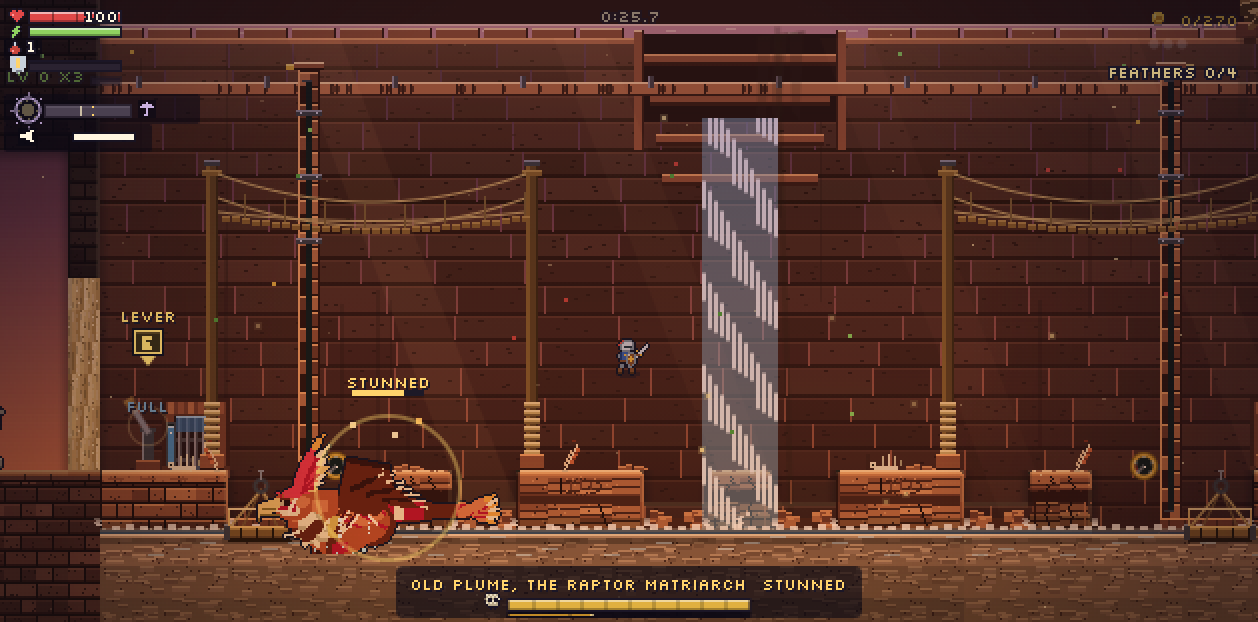
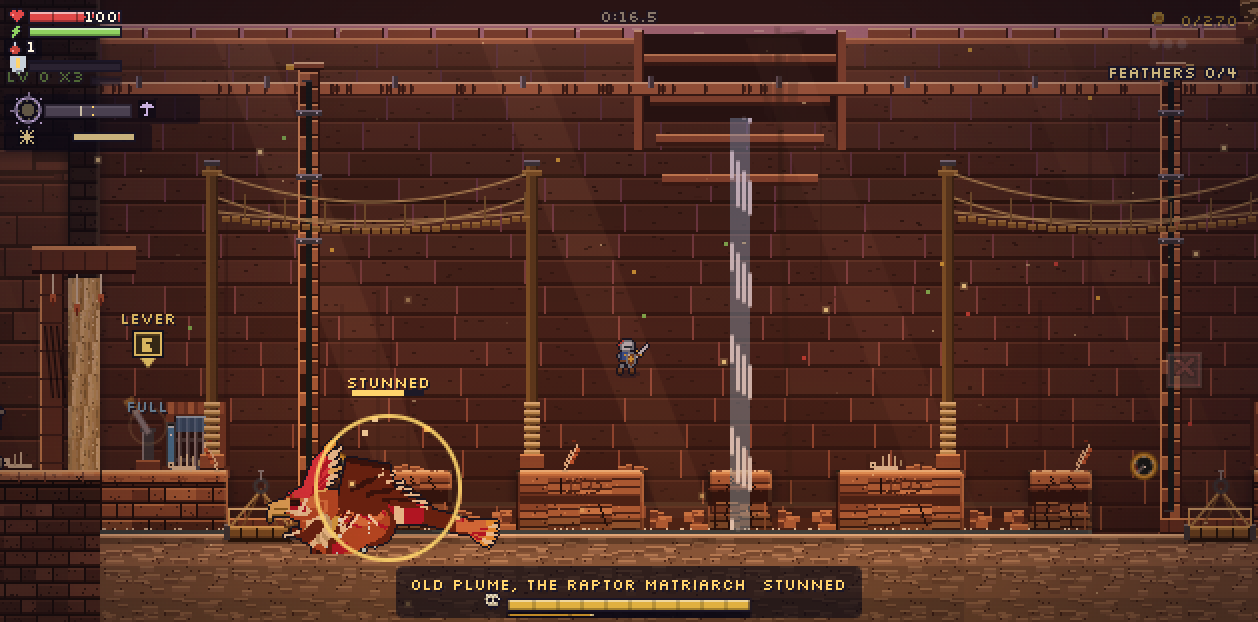
rgart: the Spillway's own look - masonry face + red rock + dry stained chute backdrop, crest davit and rope, crane and chain for sp3, head shelf and her door, slabs and apron tiles

diff --git a/src/redraw/spillway_art.js b/src/redraw/spillway_art.js
@@ -1,0 +1,163 @@
+// spillway_art.js - THE SPILLWAY's OWN LOOK (claude/rgart art pass; pure drawing: no collision, number or rule moves). The Spillway is the dam's own overflow cut: you go down off the dam's crest into
+// a dry basin and climb its face to her nest. It used to wear the generic sunset backdrop (the gorge's back wall only covers cols 3-45). Now:
+//   drawBackdrop(g, cx, cy, VW, VH, time)   BEHIND the tiles: the dam's MASONRY FACE above row 32 (ashlar courses, iron ties, weep stains, a crenelled crown, a heavy cornice at its foot) and the raw RED ROCK
+//                                           below it (strata, varnish streaks, pale mineral weeps), with the DRY, STAINED SPILLWAY CHUTE down the channel's columns: a weir lip, polished slabs, tide-lines,
+//                                           salt crust, dried slime, and a cracked stilling floor at the foot. Baked once; the wall is darker the deeper (the basin's shade).
+//   drawProps(g, S, K)                      behind the heroes: the CREST's davit and rope (a timber post and jib over the lip, the rope run through a sheave and down the shaft), a CRANE and CHAIN for any
+//                                           basket hung far from its water-wheel (sp3 at cols 80-81: a jib over its pulley on the head, a link chain down to the wheel's cog), and the HEAD SHELF's dressing
+//                                           (her door's carved lintel and jamb, talon scars, hung plumes, bones)
+//   tile(t, x, y, at, T, L)                 the kit's hook (src/redraw/redgorge_tiles.js): the head shelf's flagstone, a stone corbel slab where a ledge stands in the masonry, and the basin floor's scoured apron
+import { canvas, mulberry } from '../px.js';
+import { REDGORGE } from '../red-gorge.js';
+const TS = 16, R = Math.round, SP = REDGORGE.spillway;
+const memo = new Map(); const once = (k, fn) => { if (!memo.has(k)) memo.set(k, fn()); return memo.get(k); };
+const rc = (g, x, y, w, h, col) => { g.fillStyle = col; g.fillRect(R(x), R(y), R(w), R(h)); };
+const hash = (a, b) => { let h = (Math.imul(a | 0, 73856093) ^ Math.imul(b | 0, 19349663)) >>> 0; h = Math.imul(h ^ (h >>> 13), 1274126177) >>> 0; return h; };
+const WX0 = 46 * TS, WX1 = (SP.x1 + 1) * TS, WY0 = SP.top * TS, WY1 = (SP.floor + 1) * TS, FOOT = 33 * TS;   /* the wall's rect (world px); the masonry ends at row 32 */
+const CH0 = SP.ch[0] * TS, CH1 = (SP.ch[1] + 1) * TS;
+const M = { m0: '#2e1614', m1: '#3a1e1a', m2: '#46261f', m3: '#542e24', mL: '#6a3a2c', mD: '#140a0a', mort: '#100808', tie: '#1a1418', tieL: '#6a6674' };
+const RRK = ['#4a1c14', '#5e2618', '#74301c', '#52200f', '#6a3420', '#82401f'];
+const WOOD = { w0: '#1e1208', w1: '#3a2614', w2: '#5e4022', w3: '#86602e', w4: '#b08848', rope: '#c8a868', ropeD: '#7a5c34', ropeL: '#ecd49c', iron: '#3a3a44', ironL: '#8a8a98' };
+const STONE = { s0: '#2a1210', s1: '#46221a', s2: '#6a3626', s3: '#8e4e34', s4: '#b06a44', l1: '#eaa468', l2: '#fad39c' };
+
+/* ---- THE WALL, baked once (local px = world - (WX0, WY0)) ---- */
+function bakeWall() {
+  const W = WX1 - WX0, H = WY1 - WY0, [c, g] = canvas(W, H), r = mulberry(4401), foot = FOOT - WY0, cx0 = CH0 - WX0, cx1 = CH1 - WX0;
+  /* the masonry: courses 16 high, blocks 26-44 wide, offset each course */
+  const cols = [M.m1, M.m2, M.m1, M.m3, M.m0, M.m2];
+  for (let y = 0, row = 0; y < foot; y += 16, row++) { let x = -((row * 13) % 30);
+    while (x < W) { const bw = 26 + ((r() * 18) | 0), col = cols[(r() * cols.length) | 0], hh = Math.min(16, foot - y);
+      rc(g, x + 1, y + 1, bw - 1, hh - 1, col); rc(g, x + 1, y + 1, bw - 1, 1, M.mL); rc(g, x + 1, y + hh - 1, bw - 1, 1, M.mD); rc(g, x + bw, y, 1, hh, M.mort);
+      for (let i = 0; i < 3; i++) rc(g, x + 3 + ((r() * (bw - 6)) | 0), y + 3 + ((r() * 9) | 0), 1 + ((r() * 2) | 0), 1, r() < 0.5 ? M.mD : M.m3);
+      if (r() < 0.05) { rc(g, x + 4, y + 4, bw - 8, hh - 7, M.mort); rc(g, x + 4, y + hh - 3, bw - 8, 1, M.m3); }   /* a block gone: a dark void, its lower lip lit */
+      x += bw; }
+    rc(g, 0, y, W, 1, M.mort); }
+  /* the dam's iron ties: a plate, a rivet and a short bar, in rows down the face */
+  for (let y = 40; y < foot - 20; y += 64) for (let x = 24 + ((y * 7) % 40); x < W - 12; x += 96) { rc(g, x, y, 8, 8, M.tie); rc(g, x, y, 8, 1, M.tieL); rc(g, x + 3, y + 3, 2, 2, M.tieL); rc(g, x + 8, y + 3, 10, 2, M.tie); rc(g, x + 8, y + 3, 10, 1, '#2a2630'); }
+  /* the crown: coping, and the crenels she has broken */
+  rc(g, 0, 0, W, 10, M.m3); rc(g, 0, 0, W, 2, '#8a5240'); rc(g, 0, 10, W, 2, M.mort);
+  for (let x = 0; x < W; x += 24) { const gap = (x / 24 | 0) % 5 === 2; if (gap) rc(g, x, 0, 16, 6, '#12090c'); else { rc(g, x, 0, 22, 10, M.m3); rc(g, x, 0, 22, 1, '#a46a50'); rc(g, x + 22, 0, 2, 10, M.mort); } }
+  /* weeps: long dark streaks from every joint, and a pale mineral crust under the coping and the cornice */
+  for (let i = 0; i < 46; i++) { const x = (r() * W) | 0, y0 = 10 + ((r() * (foot - 60)) | 0), len = 24 + ((r() * 110) | 0); g.globalAlpha = 0.25; rc(g, x, y0, 1 + ((r() * 2) | 0), Math.min(len, foot - y0), '#0a0506'); g.globalAlpha = 0.12; rc(g, x + 1, y0, 1, Math.min(len, foot - y0), '#d8c4a0'); }
+  g.globalAlpha = 1;
+  /* the CORNICE at the masonry's foot: a heavy projecting course, lit on top, a deep shadow under */
+  rc(g, 0, foot - 10, W, 10, STONE.s3); rc(g, 0, foot - 10, W, 1, STONE.l2); rc(g, 0, foot - 9, W, 1, STONE.l1); rc(g, 0, foot - 2, W, 2, STONE.s0);
+  for (let x = 0; x < W; x += 20) rc(g, x, foot - 9, 1, 8, STONE.s1);
+  /* the RED ROCK under it: strata with a wavy edge, seams, varnish streaks, pits */
+  for (let y = foot; y < H; ) { const th = 5 + ((r() * 11) | 0), col = RRK[(r() * RRK.length) | 0], ph = r() * 6;
+    for (let x = 0; x < W; x += 4) { const wob = Math.round(Math.sin(x / 55 + ph) * 3.2 + Math.sin(x / 17 + y) * 0.8); rc(g, x, y + wob, 4, th, col); } rc(g, 0, y, W, 1, '#1a0a08'); if (r() < 0.6) rc(g, 0, y + 1, W, 1, '#a0583a'); y += th; }
+  for (let i = 0; i < 60; i++) { const x = (r() * W) | 0, y0 = foot + ((r() * (H - foot - 20)) | 0), len = 18 + ((r() * 90) | 0); g.globalAlpha = 0.14; rc(g, x, y0, 1, Math.min(len, H - y0), '#0c0506'); }
+  for (let i = 0; i < 34; i++) { const x = (r() * W) | 0, y0 = foot + ((r() * (H - foot - 20)) | 0), len = 24 + ((r() * 100) | 0); g.globalAlpha = 0.13; rc(g, x, y0, 2, Math.min(len, H - y0), '#e8d2b0'); }   /* mineral weeps */
+  g.globalAlpha = 1; for (let i = 0; i < 260; i++) rc(g, (r() * W) | 0, foot + ((r() * (H - foot)) | 0), 1 + ((r() * 3) | 0), 1, r() < 0.5 ? '#1a0a08' : '#7a4a2a');
+  for (let i = 0; i < 9; i++) { let x = (r() * W) | 0, y = foot + 20 + ((r() * (H - foot - 80)) | 0); for (let k = 0; k < 34; k++) { rc(g, x, y, 1, 1, '#0c0506'); y++; if (r() < 0.4) x += r() < 0.5 ? -1 : 1; } }   /* hairline cracks */
+  /* THE SPILLWAY CHUTE: the water's own road down the face. a weir lip, polished slabs, tide-lines, salt crust, dried slime */
+  const chW = cx1 - cx0, kerb = 5;
+  rc(g, cx0 - kerb - 2, 0, chW + (kerb + 2) * 2, H, 'rgba(0,0,0,0)');
+  for (let y = 12; y < H; y += 1) { const tone = (Math.floor((y + 3) / 22) % 3), base = ['#7a5a48', '#8a6850', '#9a7860'][tone], seam = (y + 3) % 22 === 0;
+    const inRock = y >= foot; for (let x = cx0; x < cx1; x++) { const e = Math.min(x - cx0, cx1 - 1 - x), a = e < 3 ? 0.78 : 1; g.globalAlpha = a; g.fillStyle = seam ? '#3a2418' : inRock ? ['#6a4a38', '#7a5a44'][((x >> 3) + (y >> 4)) & 1] : base; g.fillRect(x, y, 1, 1); } }
+  g.globalAlpha = 1;
+  for (let k = 0; k < 36; k++) { const x = cx0 + 3 + ((r() * (chW - 6)) | 0), y0 = 14 + ((r() * (H - 60)) | 0), len = 16 + ((r() * 90) | 0); g.globalAlpha = 0.3; rc(g, x, y0, 1, Math.min(len, H - y0 - 20), '#f2dcb8'); }   /* the polish: pale streaks along the flow */
+  for (let y = 44; y < H - 30; y += 44 + ((r() * 30) | 0)) { let yy = y; g.globalAlpha = 0.55; for (let x = cx0 + 2; x < cx1 - 2; x++) { yy += r() < 0.18 ? (r() < 0.5 ? -1 : 1) : 0; rc(g, x, yy, 1, 1, '#2a1a12'); if (r() < 0.5) rc(g, x, yy + 1, 1, 1, '#d8c8a8'); } }   /* tide-lines: a dark edge, a pale salt rim under it */
+  for (let k = 0; k < 18; k++) { const x = cx0 + 2 + ((r() * (chW - 4)) | 0), y0 = 20 + ((r() * (H - 80)) | 0); g.globalAlpha = 0.4; rc(g, x, y0, 2 + ((r() * 3) | 0), 3 + ((r() * 6) | 0), '#4a4a26'); g.globalAlpha = 0.5; rc(g, x, y0 + 1, 1, 1, '#7a8a4a'); }   /* dried slime */
+  g.globalAlpha = 1;
+  for (const sx of [cx0 - kerb, cx1]) { rc(g, sx, 12, kerb, H - 12, STONE.s2); rc(g, sx, 12, kerb, H - 12, 'rgba(0,0,0,0.0)'); for (let y = 14; y < H - 4; y += 12) { rc(g, sx, y, kerb, 11, (y / 12 | 0) & 1 ? STONE.s3 : STONE.s2); rc(g, sx, y, kerb, 1, STONE.l1); } rc(g, sx === cx0 - kerb ? sx : sx + kerb - 1, 12, 1, H - 12, STONE.s0); }   /* the kerb stones */
+  /* the weir: a stone sill across the head of the chute, a lit lip, a dark under-shadow, teeth */
+  rc(g, cx0 - kerb, 0, chW + kerb * 2, 14, STONE.s3); rc(g, cx0 - kerb, 0, chW + kerb * 2, 2, STONE.l2); rc(g, cx0 - kerb, 14, chW + kerb * 2, 3, M.mort); for (let x = cx0 - kerb + 3; x < cx1 + kerb - 2; x += 8) { rc(g, x, 4, 5, 8, STONE.s4); rc(g, x, 4, 5, 1, STONE.l1); }
+  g.globalAlpha = 0.5; rc(g, cx0, 17, chW, 18, '#0a0506'); g.globalAlpha = 1;
+  /* the stilling floor at the foot: scoured pale rock with a cracked, dried mud bed */
+  { const fy = (SP.floor * TS) - WY0, fx0 = cx0 - 40, fx1 = cx1 + 40; g.globalAlpha = 0.9; rc(g, fx0, fy - 8, fx1 - fx0, 24, '#8a6850'); g.globalAlpha = 1; rc(g, fx0, fy - 8, fx1 - fx0, 1, '#bd9878');
+    for (let i = 0; i < 40; i++) { let x = fx0 + ((r() * (fx1 - fx0)) | 0), y = fy - 6 + ((r() * 18) | 0); for (let k = 0; k < 8; k++) { rc(g, x, y, 1, 1, '#3a2418'); x += r() < 0.5 ? 1 : -1; y += r() < 0.3 ? 1 : 0; } } }
+  /* the basin's shade: the deeper the darker; a dusk glow only along the crown */
+  { const gr = g.createLinearGradient(0, 0, 0, H); gr.addColorStop(0, 'rgba(255,170,110,0.18)'); gr.addColorStop(0.12, 'rgba(10,4,6,0.06)'); gr.addColorStop(1, 'rgba(8,2,4,0.62)'); g.fillStyle = gr; g.fillRect(0, 0, W, H);
+    const el = g.createLinearGradient(0, 0, 70, 0); el.addColorStop(0, 'rgba(8,2,4,0.55)'); el.addColorStop(1, 'rgba(8,2,4,0)'); g.fillStyle = el; g.fillRect(0, 0, 70, H); }
+  return c;
+}
+export function drawBackdrop(g, cx, cy, VW, VH, time) {
+  if (cx + VW < WX0 || cx > WX1 || cy + VH < WY0 || cy > WY1) return;
+  const wall = once('wall', bakeWall), sx0 = Math.max(0, R(WX0 - cx)), sx1 = Math.min(VW, R(WX1 - cx)), sy0 = Math.max(0, R(WY0 - cy)), sy1 = Math.min(VH, R(WY1 - cy));
+  if (sx1 <= sx0 || sy1 <= sy0) return;
+  g.drawImage(wall, sx0 - R(WX0 - cx), sy0 - R(WY0 - cy), sx1 - sx0, sy1 - sy0, sx0, sy0, sx1 - sx0, sy1 - sy0);
+  /* the dusk's low light slanting down the masonry, a few drifting bands (the nest backdrop's own trick) */
+  g.save(); g.beginPath(); g.rect(sx0, sy0, sx1 - sx0, Math.min(sy1, R(FOOT - cy)) - sy0); g.clip(); g.globalCompositeOperation = 'lighter';
+  for (let k = 0; k < 4; k++) { const x = R(WX0 - cx) + ((k * 211 + 60 + time * 2.2) % (WX1 - WX0 + 100)) - 50, a = 0.035 + 0.015 * Math.sin(time * 0.5 + k); g.fillStyle = 'rgba(255,190,120,' + a.toFixed(3) + ')'; g.beginPath(); g.moveTo(x, R(WY0 - cy)); g.lineTo(x + 26, R(WY0 - cy)); g.lineTo(x + 150, R(FOOT - cy)); g.lineTo(x + 124, R(FOOT - cy)); g.closePath(); g.fill(); }
+  g.restore();
+}
+
+/* ---- PROPS ---- */
+const chain = (g, x0, y0, x1, y1, sag, ph) => {   /* a link chain on a catenary: alternating flat and edge-on links, marching with ph (px) */
+  const L = Math.hypot(x1 - x0, y1 - y0), n = Math.max(2, Math.floor(L / 3)); let k = 0;
+  for (let i = 0; i <= n; i++) { const t = i / n, tt = ((i + ph) % n + n) % n, x = x0 + (x1 - x0) * t, y = y0 + (y1 - y0) * t + Math.sin(Math.PI * t) * sag; k = (i + Math.floor(ph)) & 1;
+    if (k) { rc(g, x - 1, y - 1, 3, 2, WOOD.ironL); rc(g, x, y, 1, 1, WOOD.iron); } else { rc(g, x, y - 1, 1, 3, WOOD.iron); rc(g, x, y - 1, 1, 1, WOOD.ironL); } void tt; } };
+export function drawProps(g, S, K) {
+  const { cx, cy, vw, vh, time } = K;
+  if (cx + vw < 48 * TS || cx > 96 * TS) return;
+  /* THE CREST: a timber davit on the dam's lip - a post, a jib over the edge with a sheave at its tip - and the rope run through it, down the shaft; scuffs where the rope has worn the stone */
+  { const lipX = R(53 * TS - cx), top = R(22 * TS - cy); if (lipX > -60 && lipX < vw + 60 && top > -90 && top < vh + 40) {
+      const px = lipX - 14, jy = top - 22;
+      rc(g, px - 6, top - 3, 14, 3, STONE.s3); rc(g, px - 6, top - 3, 14, 1, STONE.l1);   /* the footing */
+      rc(g, px - 2, jy, 5, 22, WOOD.w2); rc(g, px - 2, jy, 1, 22, WOOD.w3); rc(g, px + 2, jy, 1, 22, WOOD.w1);   /* the post */
+      for (const by of [top - 8, top - 16]) { rc(g, px - 3, by, 7, 2, WOOD.iron); rc(g, px - 3, by, 7, 1, WOOD.ironL); }
+      rc(g, px - 2, jy - 2, 30, 4, WOOD.w2); rc(g, px - 2, jy - 2, 30, 1, WOOD.w3);   /* the jib, out over the lip */
+      g.strokeStyle = WOOD.w2; g.lineWidth = 2; g.beginPath(); g.moveTo(px + 1, top - 6); g.lineTo(px + 16, jy + 2); g.stroke(); g.lineWidth = 1;   /* the brace */
+      g.fillStyle = WOOD.iron; g.beginPath(); g.arc(lipX + 2, jy + 5, 4, 0, Math.PI * 2); g.fill(); g.fillStyle = WOOD.ironL; g.fillRect(lipX + 1, jy + 1, 2, 1); g.fillStyle = '#10080c'; g.fillRect(lipX + 1, jy + 4, 2, 2);   /* the sheave */
+      for (let y = jy + 9; y < top + 16; y += 2) { rc(g, lipX, y, 4, 2, ((y >> 1) & 1) ? WOOD.ropeD : WOOD.rope); rc(g, lipX + 1, y, 1, 2, WOOD.ropeL); }   /* the rope, twisted */
+      for (let t = 0; t < 3; t++) { rc(g, px - 3, top - 22 + t * 3, 7, 2, ((t) & 1) ? WOOD.ropeD : WOOD.rope); }   /* the standing part, wound on the post */
+      rc(g, px + 2, top - 20, 3, 5, WOOD.rope); rc(g, px + 3, top - 20, 3, 1, WOOD.ropeL);
+      g.globalAlpha = 0.5; for (let i = 0; i < 4; i++) rc(g, lipX - 4 - i, top + i * 2, 2, 1, '#1a0a08'); g.globalAlpha = 1;   /* the rope-burn scuffs on the lip */
+      rc(g, lipX - 38, top - 3, 10, 3, WOOD.rope); rc(g, lipX - 38, top - 3, 10, 1, WOOD.ropeL); rc(g, lipX - 36, top - 2, 6, 1, WOOD.ropeD); } }   /* a spare coil on the crest */
+  /* THE CRANE AND CHAIN: a basket hung far from its water-wheel (sp3, cols 80-81) is wound by a chain from the wheel's cog up to a jib over its pulley, set on the head's edge */
+  for (const m of K.movers()) if (m.gorge) { const w = (S.wheelsW || []).find(q => q.basket === m.gorge); if (!w) continue; const mx = m.x + m.w / 2; if (Math.abs(mx - w.x) < 4 * TS) continue;
+    const side = Math.sign(mx - w.x) || 1, postX = R(mx + side * 24 - cx), surf = R(m.y1 - cy), jibY = R(m.y1 - 52 - cy), tipX = R(mx - cx), wx = R(w.x - cx), wy = R(w.y - cy);
+    if (Math.max(postX, tipX, wx) < -40 || Math.min(postX, tipX, wx) > vw + 40 || surf < -90 || jibY > vh + 400) continue;
+    rc(g, postX - 7, surf - 3, 14, 3, STONE.s3); rc(g, postX - 7, surf - 3, 14, 1, STONE.l1);
+    rc(g, postX - 3, jibY - 3, 6, surf - jibY, WOOD.w2); rc(g, postX - 3, jibY - 3, 1, surf - jibY, WOOD.w3); rc(g, postX + 2, jibY - 3, 1, surf - jibY, WOOD.w1);
+    for (const by of [surf - 10, surf - 26]) { rc(g, postX - 4, by, 8, 2, WOOD.iron); rc(g, postX - 4, by, 8, 1, WOOD.ironL); }
+    rc(g, Math.min(postX, tipX) - 2, jibY - 3, Math.abs(postX - tipX) + 6, 4, WOOD.w2); rc(g, Math.min(postX, tipX) - 2, jibY - 3, Math.abs(postX - tipX) + 6, 1, WOOD.w3);
+    g.strokeStyle = WOOD.w2; g.lineWidth = 2; g.beginPath(); g.moveTo(postX - side * 1, jibY + 22); g.lineTo(postX - side * 18, jibY - 1); g.stroke(); g.lineWidth = 1;
+    g.fillStyle = WOOD.iron; g.beginPath(); g.arc(tipX, jibY + 4, 4, 0, Math.PI * 2); g.fill(); g.fillStyle = WOOD.ironL; g.fillRect(tipX - 1, jibY, 2, 1);   /* the guide sheave */
+    const ph = w.run ? (time * 24) : 0; chain(g, wx, wy - 2, tipX, jibY + 4, 14 + Math.abs(tipX - wx) * 0.05, ph);
+    g.fillStyle = WOOD.iron; g.beginPath(); g.arc(wx, wy, 4, 0, Math.PI * 2); g.fill(); for (let k = 0; k < 8; k++) { const a = (w.a || 0) + k * Math.PI / 4; g.fillRect(R(wx + Math.cos(a) * 5) - 1, R(wy + Math.sin(a) * 5) - 1, 2, 2); }   /* the cog on the wheel's axle */
+  }
+  /* THE HEAD SHELF and HER DOOR: a carved lintel over the doorway, a stone pier on its west side, talon scars, hung plumes and bones. The door is col 95 (rows 16-21) */
+  { const dx = R(95 * TS - cx), top = R(22 * TS - cy); if (dx > -80 && dx < vw + 80 && top > -40 && top < vh + 140) {
+      const lt = top - 112;
+      rc(g, dx - 18, lt, 52, 14, STONE.s2); rc(g, dx - 18, lt, 52, 2, STONE.l1); rc(g, dx - 18, lt + 12, 52, 2, STONE.s0); for (let x = dx - 14; x < dx + 30; x += 11) rc(g, x, lt + 3, 1, 9, STONE.s1);   /* the lintel */
+      rc(g, dx - 14, lt + 14, 12, 98, STONE.s2); rc(g, dx - 14, lt + 14, 1, 98, STONE.l1); rc(g, dx - 3, lt + 14, 1, 98, STONE.s0); for (let y = lt + 24; y < top; y += 14) rc(g, dx - 14, y, 12, 1, STONE.s1);   /* the pier */
+      g.strokeStyle = '#140808'; g.lineWidth = 1; for (let i = 0; i < 3; i++) { g.beginPath(); g.moveTo(dx - 12 + i * 3 + 0.5, lt + 40); g.lineTo(dx - 8 + i * 3 + 0.5, lt + 76); g.stroke(); }   /* her talon scars on the pier */
+      for (let i = 0; i < 3; i++) { rc(g, dx - 8 + i * 12, lt + 14, 1, 10 + (i % 2) * 5, '#e8dcc0'); rc(g, dx - 9 + i * 12, lt + 24 + (i % 2) * 5, 3, 4, '#c8643a'); rc(g, dx - 8 + i * 12, lt + 26 + (i % 2) * 5, 1, 4, '#7a2e1c'); }   /* hung plumes */
+      rc(g, dx - 30, top - 3, 12, 2, '#e8dcc0'); rc(g, dx - 33, top - 6, 4, 4, '#e8dcc0'); rc(g, dx - 32, top - 4, 1, 1, '#1a1008'); rc(g, dx - 27, top - 8, 1, 6, '#cdbfa0'); rc(g, dx - 24, top - 9, 1, 7, '#e8dcc0'); } }   /* bones at the threshold */
+}
+
+/* ---- TILES: the head shelf's flagstone, a corbelled stone slab for a ledge in the masonry, the scoured apron on the basin floor ---- */
+const px2 = (g, x, y, c) => { if (x >= 0 && x < 16 && y >= 0 && y < 16) rc(g, x, y, 1, 1, c); };
+function ashlarBody(g, x, y, mir) { rc(g, 0, 0, 16, 16, M.mort); const r = mulberry(hash(x & 3, y) + 5);
+  for (let row = 0; row < 2; row++) { const off = ((y * 2 + row) & 1) ? 8 : 0; for (let bx = -8; bx < 16; bx += 16) { const xx = bx + off, t = r(); rc(g, xx + 1, row * 8 + 1, 15, 7, t < 0.2 ? '#5a2e24' : t < 0.55 ? M.m3 : M.m2); rc(g, xx + 1, row * 8 + 1, 15, 1, M.mL); rc(g, xx + 1, row * 8 + 7, 15, 1, M.mD); for (let i = 0; i < 3; i++) px2(g, xx + 2 + ((r() * 13) | 0), row * 8 + 2 + ((r() * 5) | 0), M.mD); } } void mir; }
+const flagTile = (x, y, e) => once('fl' + (x & 3) + '_' + e, () => { const [c, g] = canvas(16, 16), r = mulberry(hash(x & 7, 22) + 9);
+  ashlarBody(g, x, y + 1);   /* the shelf is the dam's own crown: dressed under, paved over */
+  rc(g, 0, 0, 16, 6, '#a06a4c'); rc(g, 0, 0, 16, 1, STONE.l2); rc(g, 0, 1, 16, 1, STONE.l1); rc(g, 0, 2, 16, 1, '#c27c54'); rc(g, 0, 5, 16, 1, M.mort); rc(g, 8 + (x & 1) * 3 - 4, 1, 1, 5, '#6a3a2c');   /* a flagstone with its joint */
+  for (let i = 0; i < 4; i++) px2(g, (r() * 16) | 0, 2 + ((r() * 3) | 0), '#7a4a38'); g.globalAlpha = 0.18; rc(g, 3, 1, 10, 2, '#fff0cc'); g.globalAlpha = 1;   /* worn by claws: a lighter patch */
+  if (x % 5 === 2) { px2(g, 4, 3, '#2a1210'); px2(g, 5, 4, '#2a1210'); px2(g, 6, 3, '#2a1210'); }   /* a talon scratch */
+  if (e & 1) rc(g, 0, 0, 1, 16, M.mort); if (e & 2) rc(g, 15, 0, 1, 16, M.m3); g.globalAlpha = 0.26; rc(g, 0, 6, 16, 10, '#000'); g.globalAlpha = 1; return c; });
+const slabTile = (l, r2, v) => once('sl' + l + r2 + v, () => { const [c, g] = canvas(16, 16);
+  rc(g, 0, 0, 16, 5, '#a06a4c'); rc(g, 0, 0, 16, 1, STONE.l2); rc(g, 0, 1, 16, 1, STONE.l1); rc(g, 0, 4, 16, 1, M.mort); rc(g, 5 + v * 3, 1, 1, 4, '#6a3a2c');
+  rc(g, 0, 5, 16, 2, M.m2); rc(g, 0, 6, 16, 1, M.mD);   /* the slab's edge */
+  for (const bx of [2, 10]) { rc(g, bx, 7, 4, 3, M.m3); rc(g, bx, 7, 4, 1, M.mL); rc(g, bx + 1, 10, 2, 2, M.m1); rc(g, bx, 12, 4, 1, M.mD); }   /* the corbels stepping in under it */
+  if (l) { rc(g, 0, 0, 2, 6, '#c27c54'); px2(g, 0, 0, STONE.l2); } if (r2) rc(g, 14, 0, 2, 6, '#7a4a38'); return c; });
+const apronTile = (x, topRow) => once('ap' + (x & 3) + topRow, () => { const [c, g] = canvas(16, 16), r = mulberry(hash(x & 3, 62) + 31);
+  rc(g, 0, 0, 16, 16, '#8a6850'); for (let i = 0; i < 6; i++) { const w = 4 + ((r() * 6) | 0), xx = (r() * 12) | 0, yy = (r() * 14) | 0; rc(g, xx, yy, w, 2, r() < 0.5 ? '#9c7860' : '#7a5844'); rc(g, xx, yy, w, 1, '#bd9878'); }
+  for (let i = 0; i < 3; i++) { let xx = (r() * 16) | 0, yy = 2 + ((r() * 10) | 0); for (let k = 0; k < 7; k++) { px2(g, xx, yy, '#3a2418'); xx += r() < 0.5 ? 1 : -1; yy += r() < 0.4 ? 1 : 0; } }   /* the dried mud's cracks */
+  if (topRow) { rc(g, 0, 0, 16, 1, '#f2d8b4'); rc(g, 0, 1, 16, 1, '#ecc4a6'); rc(g, 0, 2, 16, 1, '#bd9878'); g.globalAlpha = 0.28; rc(g, 0, 3, 16, 3, '#000'); g.globalAlpha = 1; } else { g.globalAlpha = 0.2; rc(g, 0, 0, 16, 16, '#000'); g.globalAlpha = 1; } return c; });
+export function tile(t, x, y, at, T, L) {
+  if (x < SP.x0 || x > SP.x1 + 1 || y < SP.top || y > SP.floor + 3) return null;
+  const air = (dx, dy) => at(x + dx, y + dy) === T.AIR;
+  if (t === T.SOLID) {
+    if (y === SP.head && x >= 86 && air(0, -1)) return flagTile(x, y, (air(-1, 0) ? 1 : 0) | (air(1, 0) ? 2 : 0));
+    if (y >= SP.floor && x >= SP.ch[0] - 1 && x <= SP.ch[1] + 1 && (y === SP.floor ? air(0, -1) : true) && at(x, SP.floor - 1) === T.AIR) return apronTile(x, y === SP.floor);
+    return null;
+  }
+  if (t === T.ONEWAY && y <= 32) {
+    const zs = L.ledgeZones || [], br = zs.some(z => y >= z[2] && y <= z[3] && x >= z[0] && x <= z[1]); if (br) return null;
+    const same = k => at(x + k, y) === t; return slabTile(!same(-1), !same(1), x & 1);
+  }
+  return null;
+}

diff --git a/src/redraw/redgorge_props.js b/src/redraw/redgorge_props.js
@@ -6,6 +6,7 @@
 // S = the hands' state { channels, spans, gates, wheels, wheelsW, jams, nest, vault, phase, t, L }; K = { TS, cx, cy, vw, vh, time, movers, questGot, questN }.
 // Everything static is baked once (memo); water is a baked texture scrolled down its span. Pure drawing.
 import { mulberry } from '../px.js';
+import { drawProps as drawSpillwayProps } from './spillway_art.js';   /* THE SPILLWAY's crest davit, crane and chain, and her door (claude/rgart) */
 const memo = new Map(); const once = (k, fn) => { if (!memo.has(k)) memo.set(k, fn()); return memo.get(k); };
 const mk = (w, h) => { const c = document.createElement('canvas'); c.width = w; c.height = h; const g = c.getContext('2d'); g.imageSmoothingEnabled = false; return [c, g]; };
 const rc = (g, x, y, w, h, col) => { g.fillStyle = col; g.fillRect(Math.round(x), Math.round(y), Math.round(w), Math.round(h)); };
@@ -143,6 +144,7 @@ export function drawBack(g, S, K) {
     g.fillStyle = P.w0; g.fillRect(x - 2, y - 1, m.w + 4, 2); g.fillStyle = '#e8c070'; g.fillRect(x - 2, y - 2, m.w + 4, 1);                                  /* the rim, lit */
     g.fillStyle = P.w0; g.fillRect(x + 1, y + 10, m.w - 2, 2); g.fillStyle = '#0a0604'; g.fillRect(x + 2, y + 12, m.w - 4, 1);
     g.fillStyle = P.rope; g.fillRect(x - 1, y + 4, 1, 3); g.fillRect(x + m.w, y + 4, 1, 3); }
+  drawSpillwayProps(g, S, { cx, cy, vw, vh, time, movers: K.movers });
   /* THE JAMS */
   for (const j of S.jams) { if (j.open) continue; const x = R(j.x0 * TS - cx), y = R(j.y0 * TS - cy), wpx = (j.x1 - j.x0 + 1) * TS, h = (j.y1 - j.y0 + 1) * TS; if (y > vh || y + h < 0 || x > vw || x + wpx < 0) continue;
     g.drawImage(jamArt(wpx, h), x, y); const full = S.gates.some(q => q.id === 'jam' && q.state === 'full');

diff --git a/src/redraw/redgorge_tiles.js b/src/redraw/redgorge_tiles.js
@@ -5,7 +5,8 @@
 //   gorgeTile(t, x, y, at, T, L) -> the canvas for one cell, or null (the game's own kit draws it)
 // The rules: a wall mass is darker than the floor on it; every ledge top is warm-lit (reflected light off the far wall); the channel is the palest thing on the screen.
 import { canvas, px, rect, mulberry } from '../px.js';
-import { tile as newGroundTile } from './redgorge2_art.js';   /* THE RAPIDS' rock, the nest ledge's pillars and bed (claude/redgorge2 art pass) */
+import { tile as newGroundTile } from './redgorge2_art.js';
+import { tile as spillwayTile } from './spillway_art.js';   /* THE SPILLWAY's head shelf, ledge slabs and basin apron (claude/rgart) */   /* THE RAPIDS' rock, the nest ledge's pillars and bed (claude/redgorge2 art pass) */
 
 export const DAM_X = 48;
 export const RK = { r0: '#240f0e', r1: '#3c1a16', r2: '#5c2c20', r3: '#76382a', r4: '#92503a', r5: '#ae6646', lip0: '#b8683e', lip1: '#e0905a', lip2: '#f6c488',
@@ -96,6 +97,7 @@ function ropeTile(y, endTop, endBot) {
 // ================================ THE HOOK ================================
 export function gorgeTile(t, x, y, at, T, L) {
   { const ng = newGroundTile(t, x, y, at, T, L); if (ng) return ng; }
+  { const sp = spillwayTile(t, x, y, at, T, L); if (sp) return sp; }
   const air = (dx, dy) => at(x + dx, y + dy) === T.AIR;
   if (t === T.NET) return ropeTile(y, at(x, y - 1) !== T.NET && at(x, y - 1) !== T.SOLID, at(x, y + 1) !== T.NET);
   if (t === T.ONEWAY) {

diff --git a/src/redraw/redgorge_backdrop.js b/src/redraw/redgorge_backdrop.js
@@ -9,7 +9,8 @@
 //   drawBackdrop(g, cx, cy, VW, VH, L, time, dY, full)
 import { mulberry } from '../px.js';
 import { drawBackdrops as drawCanyonView } from './redgorge2_art.js';   /* THE CLIMB's height, over the Rapids and the Climb (claude/redgorge2 art pass) */
-import { drawNestBackdrop } from './matriarch_ledge.js';   /* the old dam behind the Matriarch's ledge */
+import { drawNestBackdrop } from './matriarch_ledge.js';
+import { drawBackdrop as drawSpillwayBackdrop } from './spillway_art.js';   /* THE SPILLWAY's own wall (claude/rgart) */   /* the old dam behind the Matriarch's ledge */
 const TS = 16;
 const memo = new Map(); const once = (k, fn) => { if (!memo.has(k)) memo.set(k, fn()); return memo.get(k); };
 const mk = (w, h) => { const c = document.createElement('canvas'); c.width = w; c.height = h; const g = c.getContext('2d'); g.imageSmoothingEnabled = false; return [c, g]; };
@@ -79,4 +80,5 @@ export function drawBackdrop(g, cx, cy, VW, VH, L, time, dY, full) {
     const eg2 = g.createLinearGradient(wx1 - 90, 0, wx1, 0); eg2.addColorStop(0, 'rgba(8,2,4,0)'); eg2.addColorStop(1, 'rgba(8,2,4,0.5)'); g.fillStyle = eg2; g.fillRect(Math.max(x0, wx1 - 90), y0, Math.min(90, x1 - x0), VH - y0); }
   drawCanyonView(g, cx, cy, VW, VH, time, full);
   drawNestBackdrop(g, cx, cy, VW, VH, L, time);
+  drawSpillwayBackdrop(g, cx, cy, VW, VH, time);
 }
